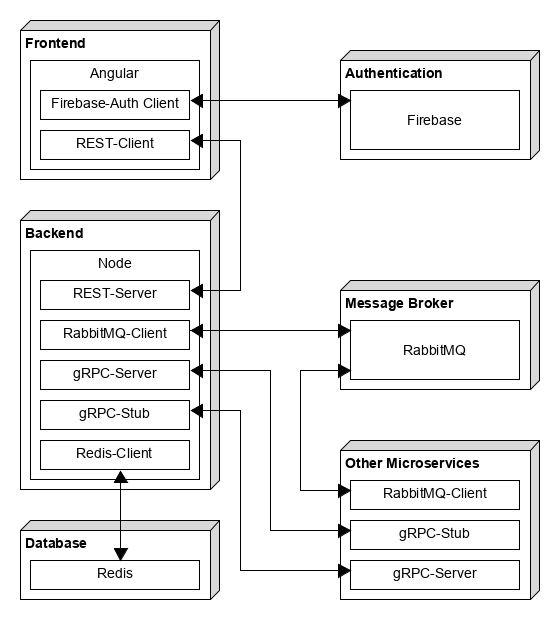
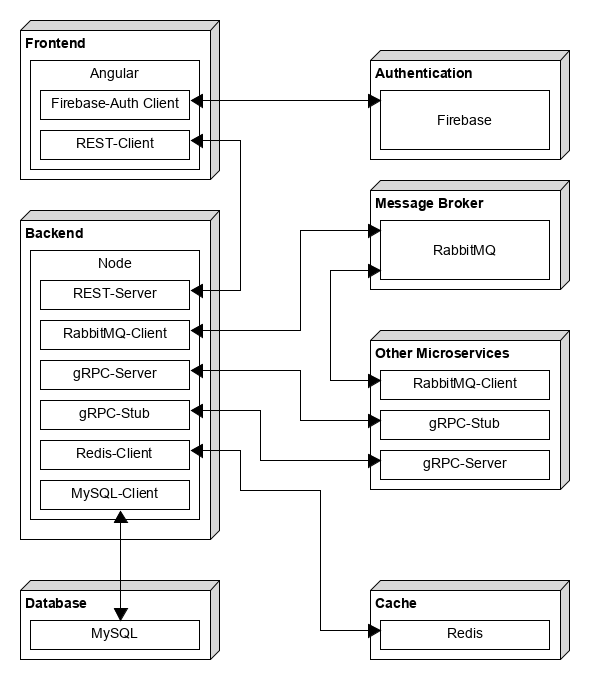
Add MySQL ER-Database to system schematic and architecture overview

Changed region(s): [[0.0304, 0.0306, 0.9714, 0.9806], [0.5161, 0.6129, 0.5464, 0.6435]]

diff --git a/docs/sven_simikin/Spezifikation_Parkplatz.md b/docs/sven_simikin/Spezifikation_Parkplatz.md
@@ -414,8 +414,10 @@ Abläufe, wie das Melden von Vorfällen werden aufgrund ihrer einfachheit nicht 
 - nodemon/node - Webserver
 - Node gRPC Library - gRPC Framework for Node 
 - Node Redis - Redis client for Node
+- TypeORM - Object Relation Mapper
 #### Database
 - Redis - In-Memory Database 
+- MySQL - ER-Datenbank
 
 ## 4.3 Grober Projektplan
 
@@ -450,18 +452,21 @@ Abläufe, wie das Melden von Vorfällen werden aufgrund ihrer einfachheit nicht 
 - [Angular](https://angular.io/docs)
 - [Firebase](https://firebase.google.com/docs/auth)
 - [gRPC](https://grpc.io/docs/)
+- [MySQL](https://dev.mysql.com/doc/)
 - [NGINX](https://nginx.org/en/docs/)
 - [Node](https://nodejs.org/en/docs/)
 - [Nodemon](https://github.com/remy/nodemon#nodemon)
 - [RabbitMQ](https://www.rabbitmq.com/documentation.html)
 - [Redis](https://redis.io/documentation)
+- [TypeORM](https://typeorm.io/#/)
 
-### Softwarepakete und Bibiliothken
+### Softwarepakete und Bibliotheken
 - [AMQP 0-9-1](https://www.npmjs.com/package/amqplib)
 - [AngularFire](https://www.npmjs.com/package/@angular/fire)
 - [gRPC Client](https://www.npmjs.com/package/@grpc/grpc-js)
 - [nodemon](https://www.npmjs.com/package/nodemon)
 - [redis](https://www.npmjs.com/package/redis)
+- [typeorm](https://www.npmjs.com/package/typeorm)
 
 ## 5.3 Index
 
